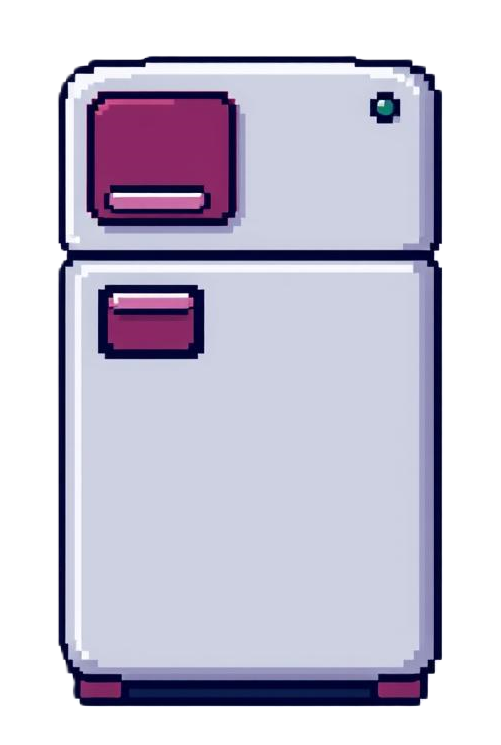
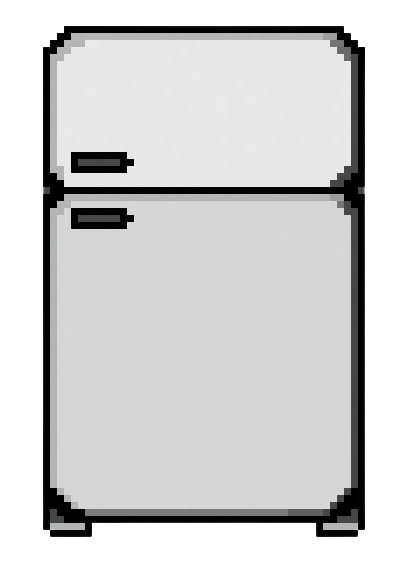
se agrega un documento nuevo, para la integracion de el menu principal, se modifica la imagen de "refri1" y "refri2"

diff --git a/menu_principal.py b/menu_principal.py
@@ -1,0 +1,46 @@
+import pygame
+import constantes
+
+def pantalla_inicio(ventana):
+    letras_titulo = pygame.font.Font(None, 74)
+    letras_botones = pygame.font.Font(None, 36)
+
+    titulo = letras_titulo.render("Bienvenido a CRECE", True, constantes.COLOR_BLANCO)
+    texto_jugar = letras_botones.render("Jugar", True, constantes.COLOR_NEGRO)
+    texto_salir = letras_botones.render("Salir", True, constantes.COLOR_NEGRO)
+
+    boton_jugar = pygame.Rect(constantes.ANCHO_VENTANA / 2 - 100, 
+                            constantes.ALTO_VENTANA / 2 - 50, 200, 50)
+
+    boton_salir = pygame.Rect(constantes.ANCHO_VENTANA / 2 - 100,
+                            constantes.ALTO_VENTANA / 2 + 50, 200, 50)
+
+    while True:
+        for evento in pygame.event.get():
+            if evento.type == pygame.QUIT:
+                pygame.quit()
+                exit()
+            if evento.type == pygame.MOUSEBUTTONDOWN:
+                if boton_jugar.collidepoint(evento.pos):
+                    return "Jugar"
+                if boton_salir.collidepoint(evento.pos):
+                    pygame.quit()
+                    exit()
+
+        # Rellenar fondo
+        ventana.fill(constantes.COLOR_BG)  # Asegúrate que COLOR_BG no sea negro
+
+        # Dibujar el título
+        ventana.blit(titulo, (constantes.ANCHO_VENTANA / 2 - titulo.get_width() / 2, 100))
+
+        # Dibujar los botones
+        pygame.draw.rect(ventana, constantes.COLOR_VERDE, boton_jugar)
+        pygame.draw.rect(ventana, constantes.COLOR_GRAFITO, boton_salir)
+
+        # Dibujar texto en los botones
+        ventana.blit(texto_jugar, (boton_jugar.x + boton_jugar.width / 2 - texto_jugar.get_width() / 2,
+                                boton_jugar.y + boton_jugar.height / 2 - texto_jugar.get_height() / 2))
+        ventana.blit(texto_salir, (boton_salir.x + boton_salir.width / 2 - texto_salir.get_width() / 2,
+                                boton_salir.y + boton_salir.height / 2 - texto_salir.get_height() / 2))
+
+        pygame.display.flip()

diff --git a/main.py b/main.py
@@ -3,12 +3,10 @@ import sys
 import constantes
 from personaje import Personaje
 from mundo import Mundo
+from menu_principal import pantalla_inicio
 
 #inicializar pygame
-pygame.init()
 
-ventana = pygame.display.set_mode((constantes.ANCHO_VENTANA,constantes.ALTO_VENTANA))
-pygame.display.set_caption("CRECE")
 
 def escalar_img(image, scale):
     w = image.get_width()
@@ -16,16 +14,27 @@ def escalar_img(image, scale):
     nueva_imagen = pygame.transform.scale(image, (w * scale, h * scale))
     return nueva_imagen
 
-animaciones = []
-for i in range(9):
-    img = pygame.image.load(f"assets/images/characters/player//player_{i}.png")
-    img= escalar_img(img, constantes.ESCALA_PERSONAJE)
-    animaciones.append(img)
-
 def main():
+    #Inicializacion de Pygame desde Main
+    pygame.init()
+
+    ventana = pygame.display.set_mode((constantes.ANCHO_VENTANA,constantes.ALTO_VENTANA))
+    pygame.display.set_caption("CRECE")
+
+    #modificacion de animaciones desde fuera de la funcion, hacia adentro
+    animaciones = []
+    for i in range(9):
+        img = pygame.image.load(f"assets/images/characters/player/player_{i}.png")
+        img= escalar_img(img, constantes.ESCALA_PERSONAJE)
+        animaciones.append(img)
+
+    accion = pantalla_inicio (ventana)
+
+    if accion == "Jugar":
+        mundo = Mundo(constantes.ANCHO_VENTANA, constantes.ALTO_VENTANA)
+        personaje = Personaje(constantes.ANCHO_VENTANA // 2, constantes.ALTO_VENTANA // 2, animaciones)
+
     clock = pygame.time.Clock()
-    mundo = Mundo(constantes.ANCHO_VENTANA, constantes.ALTO_VENTANA)
-    personaje = Personaje(constantes.ANCHO_VENTANA // 2, constantes.ALTO_VENTANA // 2, animaciones)
 
     #bucle del juego
     while True:
@@ -55,10 +64,8 @@ def main():
         pygame.display.flip()
         clock.tick(60)
 
-if __name__== "__main__":
+if __name__ == "__main__":
     main()
-        
-
 
 
 

diff --git a/mundo.py b/mundo.py
@@ -11,7 +11,7 @@ class Mundo:
         self.alto = alto
         self.elemento = [Refrigerador(random.randint(0, ancho-40),random.randint(0, alto-40)) for _ in range(1)]
 
-        grass_piso = os.path.join('imagenes','pisovf.png')
+        grass_piso = os.path.join('imagenes','floor.png')
         self.grass_image = pygame.image.load(grass_piso).convert()
         self.grass_image = pygame.transform.scale(self.grass_image, (constantes.GRASS, constantes.GRASS))
 

diff --git a/README.md b/README.md
@@ -1,7 +1,7 @@
 # math-project-consumo-electrico
 Proyecto de matemática enfocado el consumo eléctrico y crear aspectos educacionales/ saesa
 
-Prueba de matias-
+Prueba de matias
 prueba de adi
 prueba de gio (Creación de rama develop para su colectivo dentro de la unidad del proyecto)
 prueba de patricio
